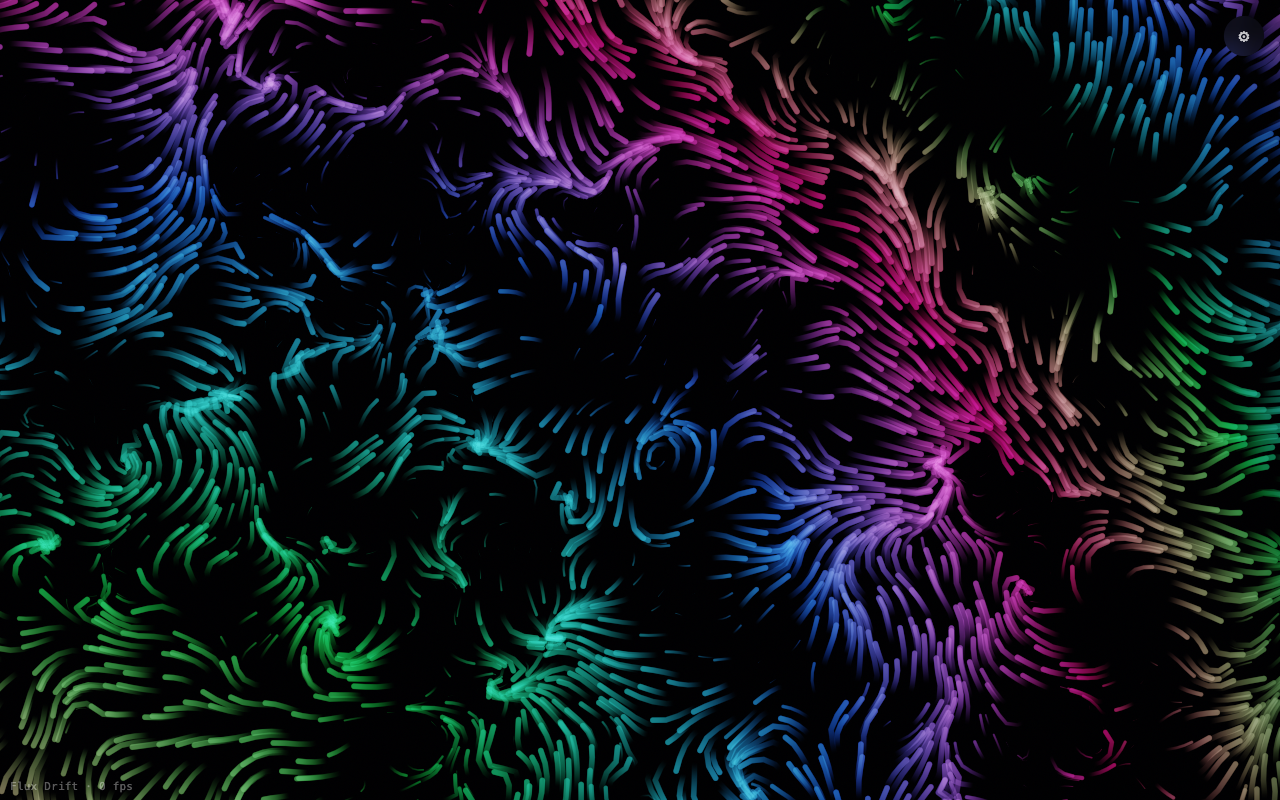
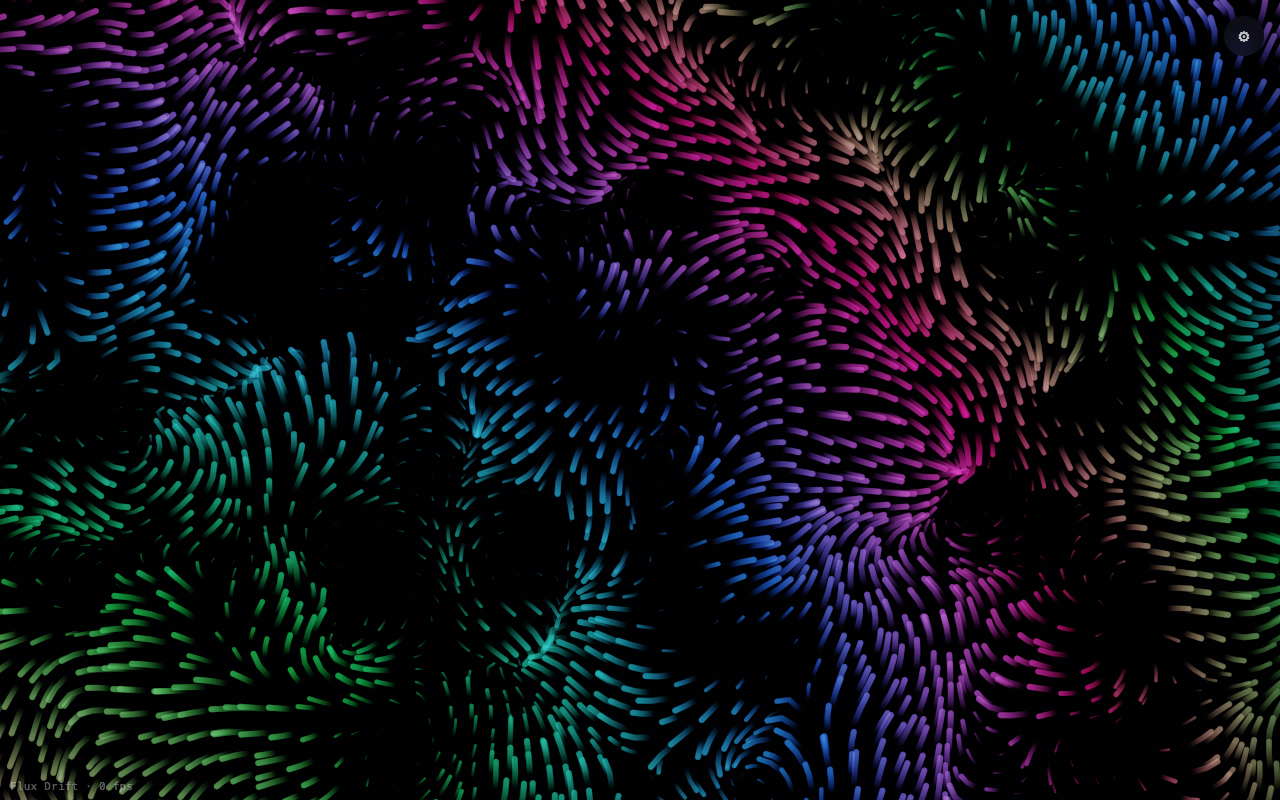
Slash Flux Drift GPU cost ~13x — it was pegging the GPU and freezing the machine
The streamline-gather Flux Drift did ~26,000 noise3 evaluations PER PIXEL
(SEARCH=6 -> 169 basepoints x ~13 velocity samples x 12 noise calls), which
pegged the GPU whenever the screensaver or its Settings preview ran, stalling the
whole desktop (WindowServer/compositor contention). "Adaptive resolution will
handle it" was wrong — the per-pixel cost is too high even at reduced scale.

Cut the cost on all three renderers with no meaningful change to the look:
- SEARCH 6 -> 3 (169 -> 49 basepoints), streamline length capped to SEARCH.
- KSTEPS 6 -> 4.
- streamPsi 3 -> 2 noise octaves.
- RK2 -> Euler integration (one velocity sample per step instead of two), reusing
  the boost-check velocity for the first step.
Net ~26k -> ~2k noise evals/pixel (~13x). Verified the look holds in Chrome
(screenshots/drift.png) and via the native render harness (native-16-FluxDrift.png).

Drift.ts: KSTEPS/SEARCH defines, 2-octave streamPsi, Euler loop, DEFAULT_LEN 5->3,
Stroke Length slider range 3-6 -> 1.5-3 (must stay <= SEARCH). Same edits mirrored
in AuroraShader.swift (MSL) and shader.hlsl (HLSL).

Verified: web tsc + 41 tests; macOS shader-check on-GPU + load-check + native
render; Windows x64 cross-compile. Reinstalled the local .saver (stale hosts
killed) so the next activation runs the light version.

diff --git a/src/scenes/Drift.ts b/src/scenes/Drift.ts
@@ -47,9 +47,12 @@ uniform vec3  uSky;      // near-black background
 ${SIMPLEX_3D}
 ${DITHER}
 
-// Fixed tunables (from the validated prototype; not user-facing).
-#define KSTEPS 6                    // streamline polyline segments (RK2)
-#define SEARCH 6                    // basepoint neighbourhood half-width (>= uLen)
+// Fixed tunables. Kept deliberately small: this scene's cost is
+// (2*SEARCH+1)^2 * KSTEPS * (noise evals) per pixel, so SEARCH/KSTEPS/octaves are
+// the GPU budget. These values keep it real-time on integrated GPUs; the earlier
+// SEARCH=6/KSTEPS=6/3-octave settings did ~26k noise evals/pixel and pegged GPUs.
+#define KSTEPS 4                    // streamline polyline segments (Euler)
+#define SEARCH 3                    // basepoint neighbourhood half-width (>= uLen)
 const float LINE_BEGIN_OFFSET = 0.4;
 const float LINE_VARIANCE = 0.55;
 const float SPEED_GAIN = 2.0;       // width_boost = clamp(GAIN * |v|, 0, 1)
@@ -70,11 +73,11 @@ float hash21(vec2 p) {
   return fract(p.x * p.y);
 }
 
-// 3-octave simplex stream function; its curl (below) is a divergence-free flow.
+// 2-octave simplex stream function; its curl (below) is a divergence-free flow.
+// (2 octaves, not 3 — halving the noise cost of the hottest function in the scene.)
 float streamPsi(vec2 p, float t) {
   return 1.00 * snoise3(vec3(p * 0.9, t * 0.05))
-       + 0.65 * snoise3(vec3(p * 2.4, t * 0.12))
-       + 0.38 * snoise3(vec3(p * 4.8, t * 0.20));
+       + 0.55 * snoise3(vec3(p * 2.4, t * 0.12));
 }
 
 // Flow velocity = curl of the stream function (finite differences). UN-normalized
@@ -110,20 +113,18 @@ float streakField(vec2 uv, float t) {
 
       float ds = lineLen / float(KSTEPS);
       vec2 pPrev = bp;
+      vec2 vPrev = v0;                                 // reuse the boost-check sample
       float best = 1e9, bestS = 0.0, arc = 0.0;
-      for (int k = 0; k < KSTEPS; k++) {               // integrate the streamline (RK2)
-        vec2 vk = velocityAt(pPrev * uFlow, t);
-        vec2 dk = vk / max(length(vk), 1e-5);
-        vec2 pMid = pPrev + dk * (0.5 * ds);
-        vec2 vm = velocityAt(pMid * uFlow, t);
-        vec2 dm = vm / max(length(vm), 1e-5);
-        vec2 pNext = pPrev + dm * ds;
+      for (int k = 0; k < KSTEPS; k++) {               // integrate the streamline (Euler)
+        vec2 dk = vPrev / max(length(vPrev), 1e-5);
+        vec2 pNext = pPrev + dk * ds;
         vec2 pa = uv - pPrev, ba = pNext - pPrev;
         float hh = clamp(dot(pa, ba) / max(dot(ba, ba), 1e-6), 0.0, 1.0);
         float d = length(pa - ba * hh);
         float s = (arc + hh * ds) / lineLen;           // 0 at base, 1 at tip
         if (d < best) { best = d; bestS = s; }
         arc += ds; pPrev = pNext;
+        vPrev = velocityAt(pPrev * uFlow, t);          // one velocity eval per step
       }
       float fade = smoothstep(LINE_BEGIN_OFFSET, 1.0, bestS); // tail fades out
       float aa = 1.5 / uResolution.y + 1e-5;           // fixed AA (NOT fwidth — grids at seams)
@@ -163,9 +164,9 @@ void main() {
 
 const DEFAULT_THEME = "nebula";
 const DEFAULT_FLOW = 2.0;   // swirl scale
-const DEFAULT_GRID = 42;    // grid density (cells across the field)
-const DEFAULT_LEN = 5.0;    // streamline length in cells (SEARCH=6 caps it)
-const DEFAULT_GLOW = 1.5;
+const DEFAULT_GRID = 40;    // grid density (cells across the field)
+const DEFAULT_LEN = 3.0;    // streamline length in cells (must be <= SEARCH=3)
+const DEFAULT_GLOW = 1.6;
 // Drift's signature is multi-hue (magenta / green / blue), so the default color
 // stops are a vibrant triad rather than a single-hue palette. Picking a Theme in
 // the UI overrides these with that palette's stops.
@@ -182,7 +183,7 @@ export class Drift extends FullscreenScene {
     { kind: "range", id: "speed", label: "Speed", min: 0.05, max: 1.5, step: 0.01, default: 0.3 },
     { kind: "range", id: "scale", label: "Swirl Scale", min: 1.2, max: 4.0, step: 0.1, default: DEFAULT_FLOW },
     { kind: "range", id: "density", label: "Density", min: 30, max: 56, step: 1, default: DEFAULT_GRID },
-    { kind: "range", id: "dash", label: "Stroke Length", min: 3.0, max: 6.0, step: 0.5, default: DEFAULT_LEN },
+    { kind: "range", id: "dash", label: "Stroke Length", min: 1.5, max: 3.0, step: 0.25, default: DEFAULT_LEN },
     { kind: "range", id: "glow", label: "Glow", min: 0.4, max: 2.4, step: 0.05, default: DEFAULT_GLOW },
     { kind: "select", id: "theme", label: "Theme", options: PALETTE_OPTIONS, default: DEFAULT_THEME },
     { kind: "color", id: "colorA", label: "Color A", default: DRIFT_A },

diff --git a/native-saver/Sources/AuroraShader.swift b/native-saver/Sources/AuroraShader.swift
@@ -780,8 +780,7 @@ enum AuroraShaderSource {
     }
     static float driftPsi(float2 p, float t) {
         return 1.00 * snoise3(float3(p * 0.9, t * 0.05))
-             + 0.65 * snoise3(float3(p * 2.4, t * 0.12))
-             + 0.38 * snoise3(float3(p * 4.8, t * 0.20));
+             + 0.55 * snoise3(float3(p * 2.4, t * 0.12));
     }
     static float2 driftVel(float2 p, float t) {
         const float e = 0.75;
@@ -795,8 +794,8 @@ enum AuroraShaderSource {
         float flow = 2.0 * clamp(u.size, 0.4, 2.2);
         float grid = mix(36.0, 52.0, clamp(u.density, 0.0, 1.0));
         float glow = 1.0 + u.intensity;
-        const int KSTEPS = 6;
-        const int SEARCH = 6;
+        const int KSTEPS = 4;
+        const int SEARCH = 3;
         const float LINE_BEGIN_OFFSET = 0.4;
         const float LINE_VARIANCE = 0.55;
         const float SPEED_GAIN = 2.0;
@@ -805,7 +804,7 @@ enum AuroraShaderSource {
 
         float cell = 1.0 / grid;
         float2 baseId = floor(uv / cell);
-        float lenCells = min(5.0, float(SEARCH));
+        float lenCells = min(3.0, float(SEARCH));
         float accum = 0.0;
         for (int j = -SEARCH; j <= SEARCH; j++) {
             for (int i = -SEARCH; i <= SEARCH; i++) {
@@ -822,20 +821,18 @@ enum AuroraShaderSource {
                 if (dot(uv - bp, uv - bp) > (lineLen + halfW) * (lineLen + halfW)) continue;
                 float ds = lineLen / float(KSTEPS);
                 float2 pPrev = bp;
+                float2 vPrev = v0;                    // reuse the boost-check sample
                 float best = 1e9, bestS = 0.0, arc = 0.0;
-                for (int k = 0; k < KSTEPS; k++) {
-                    float2 vk = driftVel(pPrev * flow, t);
-                    float2 dk = vk / max(length(vk), 1e-5);
-                    float2 pMid = pPrev + dk * (0.5 * ds);
-                    float2 vm = driftVel(pMid * flow, t);
-                    float2 dm = vm / max(length(vm), 1e-5);
-                    float2 pNext = pPrev + dm * ds;
+                for (int k = 0; k < KSTEPS; k++) {    // Euler integration (one velocity/step)
+                    float2 dk = vPrev / max(length(vPrev), 1e-5);
+                    float2 pNext = pPrev + dk * ds;
                     float2 pa = uv - pPrev, ba = pNext - pPrev;
                     float hh = clamp(dot(pa, ba) / max(dot(ba, ba), 1e-6), 0.0, 1.0);
                     float d = length(pa - ba * hh);
                     float s = (arc + hh * ds) / lineLen;
                     if (d < best) { best = d; bestS = s; }
                     arc += ds; pPrev = pNext;
+                    vPrev = driftVel(pPrev * flow, t);
                 }
                 float fade = smoothstep(LINE_BEGIN_OFFSET, 1.0, bestS);
                 float aa = 1.5 / u.resolution.y + 1e-5;